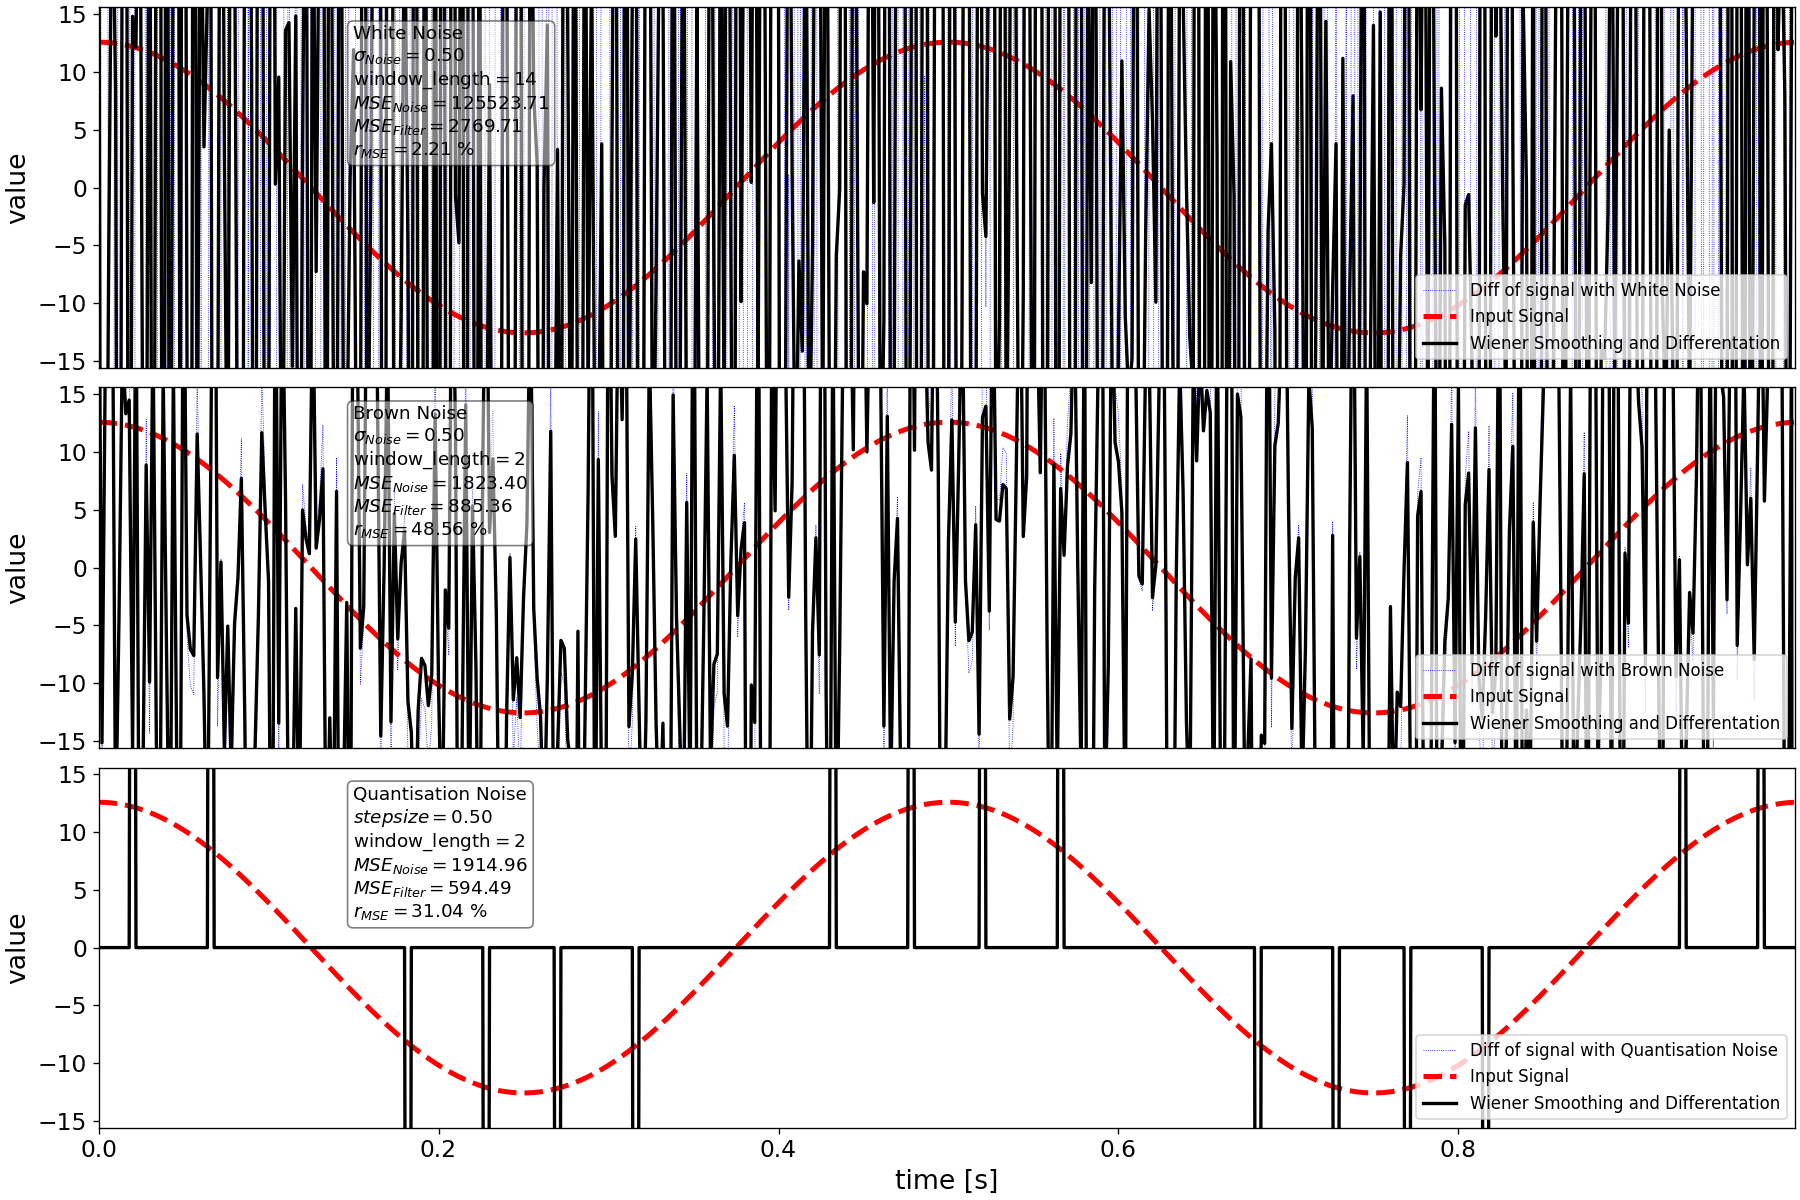
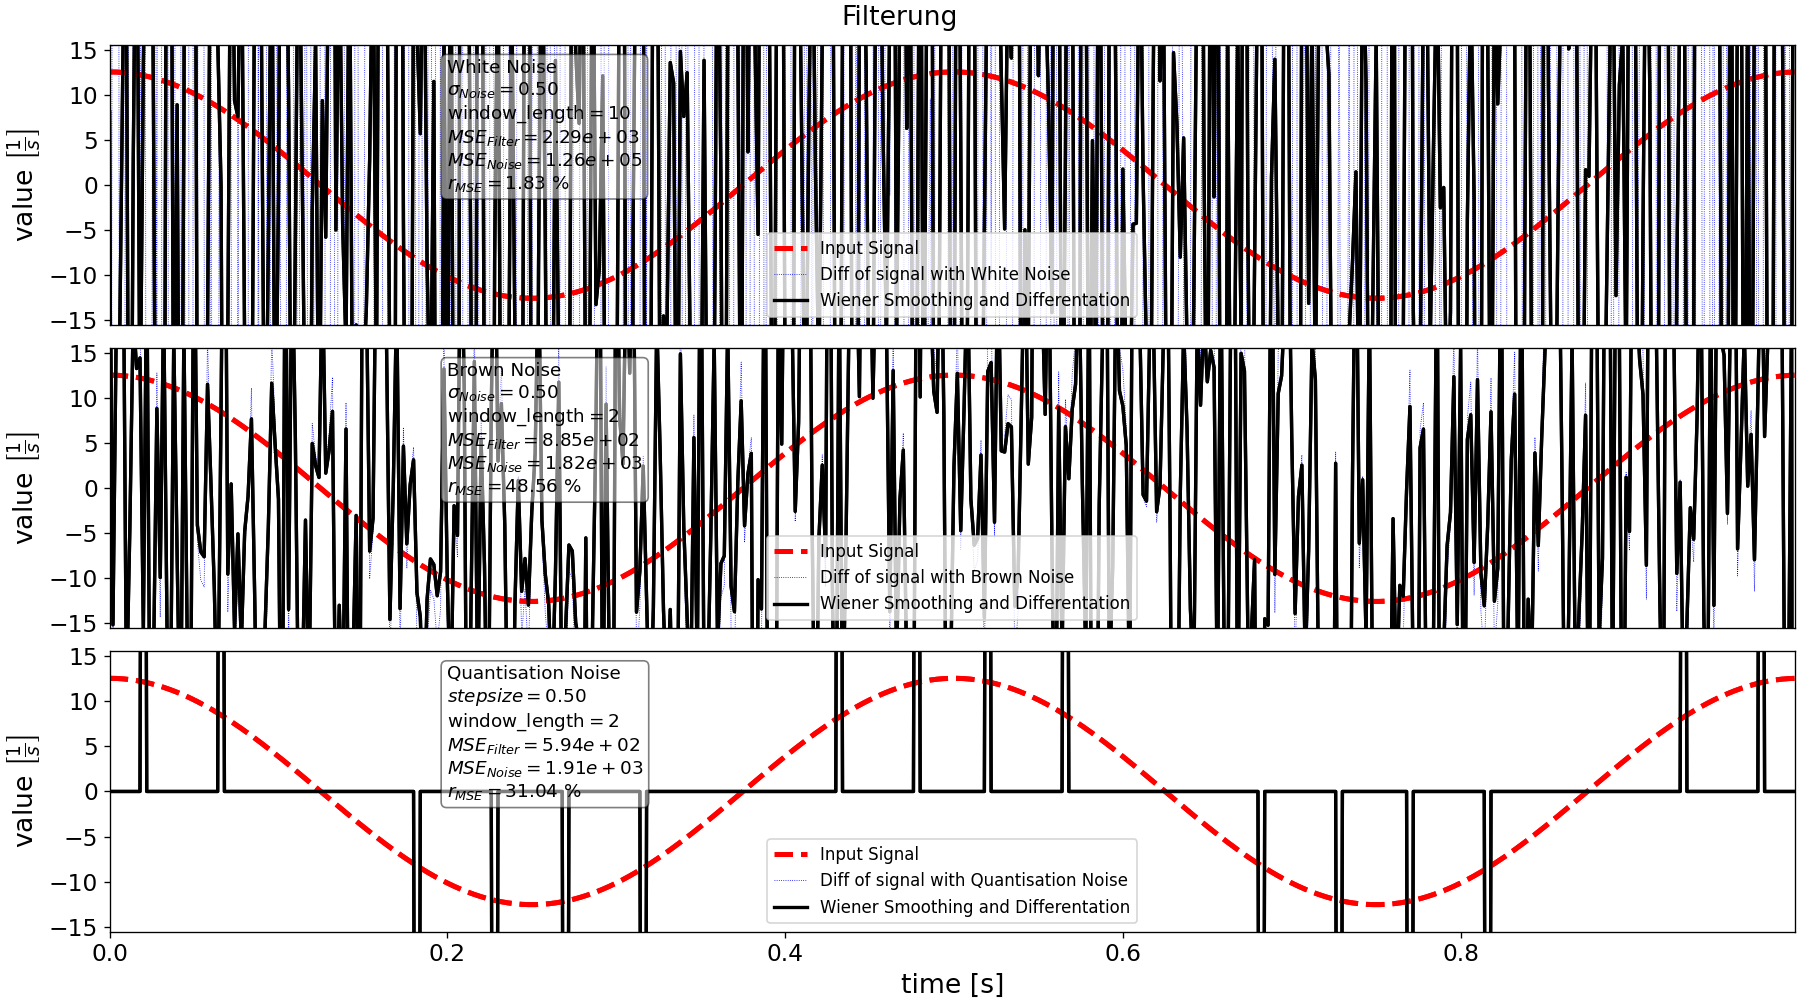
more pictures for MSEs

diff --git a/main_konsti_kalman.py b/main_konsti_kalman.py
@@ -14,12 +14,12 @@ from cost import *
 
 step_size       = 2.0e-3
 
-noise_std_dev   = 0.1
+noise_std_dev   = 0.5
 
 # 1. Filtereigenschaften auf Sinus / Polynom
 point_counter = 500
 sine    = Input_Function(Input_Enum.SINE, [1, 0.5, 0, 0], sampling_period = step_size, point_counter=point_counter)
-polynome = Input_Function(Input_Enum.POLYNOM, [100,-150,50,0], sampling_period = step_size, point_counter=point_counter) #coefs in descending order 2x^2+1 = [2,0,1]
+polynome = Input_Function(Input_Enum.POLYNOM, [20,-30,15,0], sampling_period = step_size, point_counter=point_counter) #coefs in descending order 2x^2+1 = [2,0,1]
 input_func = polynome
 
 kalman_filter_order = 2 #4
@@ -66,25 +66,25 @@ standard_cost_quant = cost.cost(y_quant,x)
 box_label_white = '\n'.join((
         r'White Noise',
         r'$\sigma_{Noise}=%.2f$' % (noise_std_dev, ),
-        r'Process Noise $\sigma=%.2f$' % (abs(kalman_para_white.x), ),
-        r'$MSE_{Noise}=%.5f$' % (standard_cost_white, ),
-        r'$MSE_{Filter}=%.5f$' % (cost_white, ),
+        r'Process Noise $\sigma=%.2e$' % (abs(kalman_para_white.x), ),
+        r'$MSE_{Filter}=%.2e$' % (cost_white, ),
+        r'$MSE_{Noise}=%.2e$' % (standard_cost_white, ),
         r'$r_{MSE}=%.2f$ %%' % (100*cost_white/standard_cost_white, )))
 
 box_label_brown = '\n'.join((
         r'Brown Noise',
         r'$\sigma_{Noise}=%.2f$' % (noise_std_dev, ),
-        r'Process Noise $\sigma=%.2f$' % (abs(kalman_para_brown.x), ),
-        r'$MSE_{Noise}=%.5f$' % (standard_cost_brown, ),
-        r'$MSE_{Filter}=%.5f$' % (cost_brown, ),
+        r'Process Noise $\sigma=%.2e$' % (abs(kalman_para_brown.x), ),
+        r'$MSE_{Filter}=%.2e$' % (cost_brown, ),
+        r'$MSE_{Noise}=%.2e$' % (standard_cost_brown, ),
         r'$r_{MSE}=%.2f$ %%' % (100*cost_brown/standard_cost_brown, )))
 
 box_label_quant = '\n'.join((
         r'Quantisation Noise',
         r'$stepsize=%.2f$' % (noise_std_dev, ),
-        r'Process Noise $\sigma=%.2f$' % (abs(kalman_para_quant.x), ),
-        r'$MSE_{Noise}=%.5f$' % (standard_cost_quant, ),
-        r'$MSE_{Filter}=%.5f$' % (cost_quant, ),
+        r'Process Noise $\sigma=%.2e$' % (abs(kalman_para_quant.x), ),
+        r'$MSE_{Filter}=%.2e$' % (cost_quant, ),
+        r'$MSE_{Noise}=%.2e$' % (standard_cost_quant, ),
         r'$r_{MSE}=%.2f$ %%' % (100*cost_quant/standard_cost_quant, )))
 
 plot1.plot_sig(t,[x,y_white,y_brown,y_quant,x_hat_min_white,x_hat_min_brown,x_hat_min_quant],['Input Signal',
@@ -124,25 +124,25 @@ standard_cost_quant = cost.cost(y_quant_dot,x_dot)
 box_label_white = '\n'.join((
         r'White Noise',
         r'$\sigma_{Noise}=%.2f$' % (noise_std_dev, ),
-        r'Process Noise $\sigma=%.3f$' % (abs(kalman_para_white.x), ),
-        r'$MSE_{Noise}=%.2f$' % (standard_cost_white, ),
-        r'$MSE_{Filter}=%.2f$' % (cost_white, ),
+        r'Process Noise $\sigma=%.2e$' % (abs(kalman_para_white.x), ),
+        r'$MSE_{Filter}=%.2e$' % (cost_white, ),
+        r'$MSE_{Noise}=%.2e$' % (standard_cost_white, ),
         r'$r_{MSE}=%.2f$ %%' % (100*cost_white/standard_cost_white, )))
 
 box_label_brown = '\n'.join((
         r'Brown Noise',
         r'$\sigma_{Noise}=%.2f$' % (noise_std_dev, ),
-        r'Process Noise $\sigma=%.3f$' % (abs(kalman_para_brown.x), ),
-        r'$MSE_{Noise}=%.2f$' % (standard_cost_brown, ),
-        r'$MSE_{Filter}=%.2f$' % (cost_brown, ),
+        r'Process Noise $\sigma=%.2e$' % (abs(kalman_para_brown.x), ),
+        r'$MSE_{Filter}=%.2e$' % (cost_brown, ),
+        r'$MSE_{Noise}=%.2e$' % (standard_cost_brown, ),
         r'$r_{MSE}=%.2f$ %%' % (100*cost_brown/standard_cost_brown, )))
 
 box_label_quant = '\n'.join((
         r'Quantisation Noise',
         r'$stepsize=%.2f$' % (noise_std_dev, ),
-        r'Process Noise $\sigma=%.3f$' % (abs(kalman_para_quant.x), ),
-        r'$MSE_{Noise}=%.2f$' % (standard_cost_quant, ),
-        r'$MSE_{Filter}=%.2f$' % (cost_quant, ),
+        r'Process Noise $\sigma=%.2e$' % (abs(kalman_para_quant.x), ),
+        r'$MSE_{Filter}=%.2e$' % (cost_quant, ),
+        r'$MSE_{Noise}=%.2e$' % (standard_cost_quant, ),
         r'$r_{MSE}=%.2f$ %%' % (100*cost_quant/standard_cost_quant, )))
 
 plot2.plot_sig(t,[x_dot,y_white_dot,y_brown_dot,y_quant_dot,x_hat_min_white,x_hat_min_brown,x_hat_min_quant],['Input Signal',

diff --git a/main_konsti_wiener.py b/main_konsti_wiener.py
@@ -35,8 +35,8 @@ def minimize_wiener_window(t,y,x,filter,diff,cost):
 
 # 1. Filtereigenschaften auf Sinus / Polynom
 sine    = Input_Function(Input_Enum.SINE, [1, 0.5, 0, 0], sampling_period = step_size, point_counter=point_counter)
-polynome = Input_Function(Input_Enum.POLYNOM, [100,-150,50,0], sampling_period = step_size, point_counter=point_counter) #coefs in descending order 2x^2+1 = [2,0,1]
-input_func = sine
+polynome = Input_Function(Input_Enum.POLYNOM, [4,-6,3,0], sampling_period = step_size, point_counter=point_counter) #coefs in descending order 2x^2+1 = [2,0,1]
+input_func = polynome
 
 wiener   = Filter(Filter_Enum.WIENER, [])
 
@@ -73,24 +73,24 @@ box_label_white = '\n'.join((
         r'White Noise',
         r'$\sigma_{Noise}=%.2f$' % (noise_std_dev, ),
         r'window_length$=%d$' % (window_len_white, ),
-        r'$MSE_{Noise}=%.5f$' % (standard_cost_white, ),
-        r'$MSE_{Filter}=%.5f$' % (cost_white, ),
+        r'$MSE_{Filter}=%.2e$' % (cost_white, ),
+        r'$MSE_{Noise}=%.2e$' % (standard_cost_white, ),
         r'$r_{MSE}=%.2f$ %%' % (100*cost_white/standard_cost_white, )))
 
 box_label_brown = '\n'.join((
         r'Brown Noise',
         r'$\sigma_{Noise}=%.2f$' % (noise_std_dev, ),
         r'window_length$=%d$' % (window_len_brown, ),
-        r'$MSE_{Noise}=%.5f$' % (standard_cost_brown, ),
-        r'$MSE_{Filter}=%.5f$' % (cost_brown, ),
+        r'$MSE_{Filter}=%.2e$' % (cost_brown, ),
+        r'$MSE_{Noise}=%.2e$' % (standard_cost_brown, ),
         r'$r_{MSE}=%.2f$ %%' % (100*cost_brown/standard_cost_brown, )))
 
 box_label_quant = '\n'.join((
         r'Quantisation Noise',
         r'$stepsize=%.2f$' % (noise_std_dev, ),
         r'window_length$=%d$' % (window_len_quant, ),
-        r'$MSE_{Noise}=%.5f$' % (standard_cost_quant, ),
-        r'$MSE_{Filter}=%.5f$' % (cost_quant, ),
+        r'$MSE_{Filter}=%.2e$' % (cost_quant, ),
+        r'$MSE_{Noise}=%.2e$' % (standard_cost_quant, ),
         r'$r_{MSE}=%.2f$ %%' % (100*cost_quant/standard_cost_quant, )))
 
 plot1.plot_sig(t,[x,y_white,y_brown,y_quant,x_hat_min_white,x_hat_min_brown,x_hat_min_quant],['Input Signal',
@@ -129,24 +129,24 @@ box_label_white = '\n'.join((
         r'White Noise',
         r'$\sigma_{Noise}=%.2f$' % (noise_std_dev, ),
         r'window_length$=%d$' % (window_len_white, ),
-        r'$MSE_{Noise}=%.2f$' % (standard_cost_white, ),
-        r'$MSE_{Filter}=%.2f$' % (cost_white, ),
+        r'$MSE_{Filter}=%.2e$' % (cost_white, ),
+        r'$MSE_{Noise}=%.2e$' % (standard_cost_white, ),
         r'$r_{MSE}=%.2f$ %%' % (100*cost_white/standard_cost_white, )))
 
 box_label_brown = '\n'.join((
         r'Brown Noise',
         r'$\sigma_{Noise}=%.2f$' % (noise_std_dev, ),
         r'window_length$=%d$' % (window_len_brown, ),
-        r'$MSE_{Noise}=%.2f$' % (standard_cost_brown, ),
-        r'$MSE_{Filter}=%.2f$' % (cost_brown, ),
+        r'$MSE_{Filter}=%.2e$' % (cost_brown, ),
+        r'$MSE_{Noise}=%.2e$' % (standard_cost_brown, ),
         r'$r_{MSE}=%.2f$ %%' % (100*cost_brown/standard_cost_brown, )))
 
 box_label_quant = '\n'.join((
         r'Quantisation Noise',
         r'$stepsize=%.2f$' % (noise_std_dev, ),
         r'window_length$=%d$' % (window_len_quant, ),
-        r'$MSE_{Noise}=%.2f$' % (standard_cost_quant, ),
-        r'$MSE_{Filter}=%.2f$' % (cost_quant, ),
+        r'$MSE_{Filter}=%.2e$' % (cost_quant, ),
+        r'$MSE_{Noise}=%.2e$' % (standard_cost_quant, ),
         r'$r_{MSE}=%.2f$ %%' % (100*cost_quant/standard_cost_quant, )))
 
 plot2.plot_sig(t,[x_dot,y_white_dot,y_brown_dot,y_quant_dot,x_hat_dot_white,x_hat_dot_brown,x_hat_dot_quant],['Input Signal',

diff --git a/filter.py b/filter.py
@@ -129,7 +129,6 @@ class Filter:
         noise_stdev = para[0]
         m = para[1]
         sigma = noise_stdev
-        n = len(y)
         N = m//2  # (half) window length
         
 
